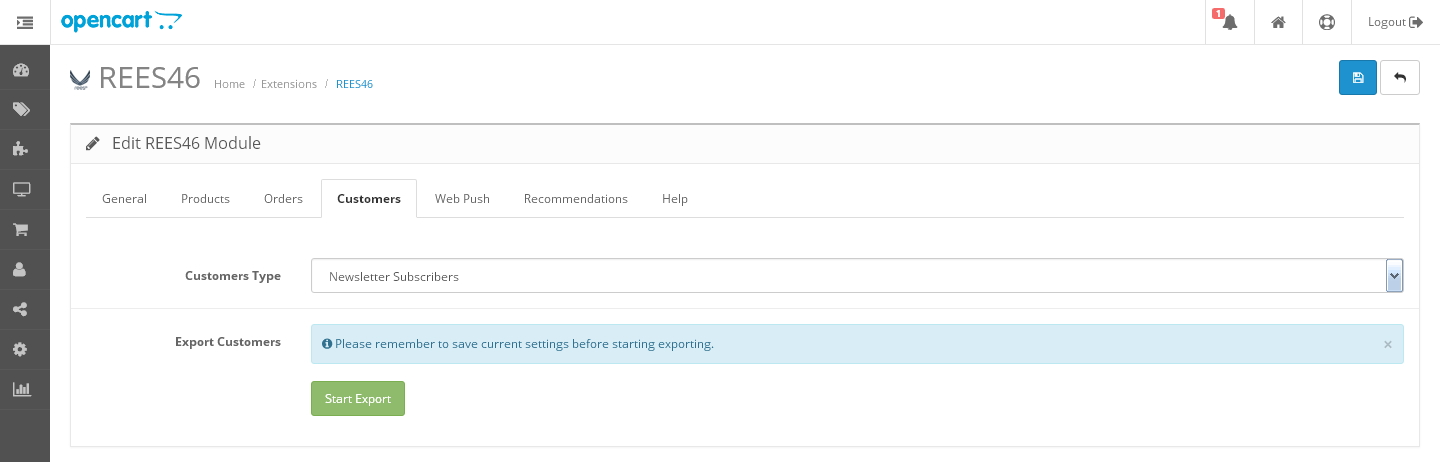
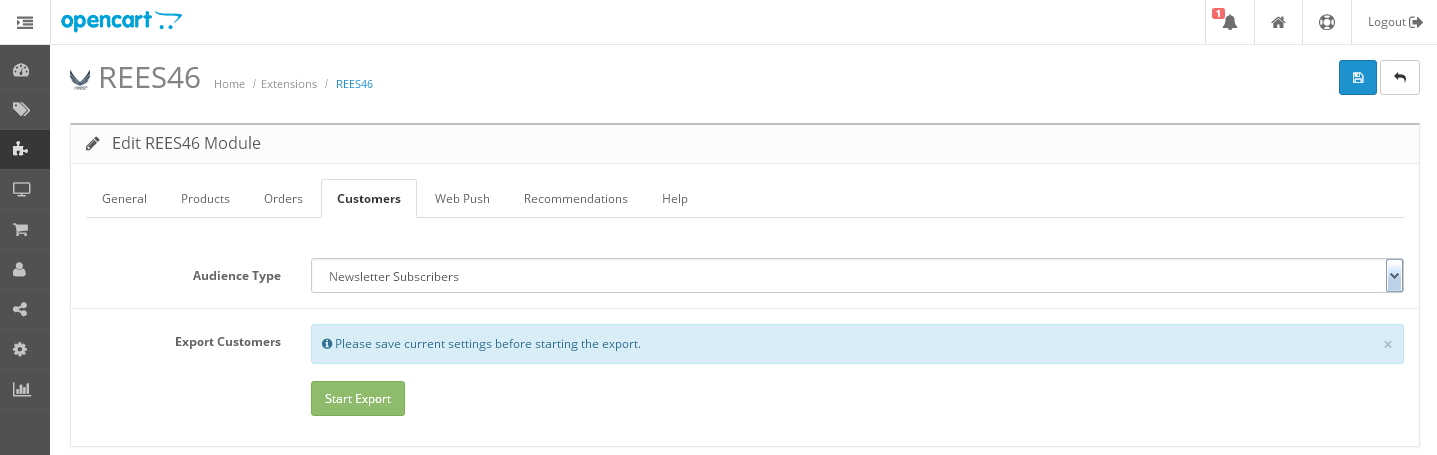
Update translation

diff --git a/upload/admin/language/en-gb/extension/module/rees46.php b/upload/admin/language/en-gb/extension/module/rees46.php
@@ -13,7 +13,7 @@ $_['tab_help']                    = 'Help';
 
 // Button
 $_['button_export']               = 'Start Export';
-$_['button_check']                = 'Check Necessary Files';
+$_['button_check']                = 'Check Files';
 $_['button_generate']             = 'Start Generate';
 
 // Text
@@ -48,8 +48,8 @@ $_['text_autocomplete']           = 'Autocomplete';
 $_['text_subscribers']            = 'Newsletter Subscribers';
 $_['text_customers']              = 'All Customers';
 $_['text_info_1']                 = '<a href="https://rees46.com/customers/sign_up?locale=en" target="_blank">To start using this module, please register an account on rees46.com.</a>';
-$_['text_info_2']                 = 'Manual export is required once - during initial configuration. Exported orders are the orders for the last 6 months with the statuses of your choice. Please remember to save current settings before starting exporting.';
-$_['text_info_3']                 = 'Please remember to save current settings before starting exporting.';
+$_['text_info_2']                 = 'Manual export is required once - during initial configuration. Exported orders are the orders for the last 6 months with the statuses of your choice. Please remember to save current settings before starting the export.';
+$_['text_info_3']                 = 'Please save current settings before starting the export.';
 $_['text_info_4']                 = 'To enable Web Push Notifications, your website first needs to support HTTPS and have manifest.json and push_sw.js in the root directory of your online store project.';
 
 // Entry
@@ -62,8 +62,8 @@ $_['entry_status_created']        = 'Created Order Status';
 $_['entry_status_completed']      = 'Completed Order Status';
 $_['entry_status_cancelled']      = 'Cancelled Order Status';
 $_['entry_export_customers']      = 'Export Customers';
-$_['entry_export_type']           = 'Customers Type';
-$_['entry_webpush_files']         = 'Necessary Files';
+$_['entry_export_type']           = 'Audience Type';
+$_['entry_webpush_files']         = 'Check Necessary Files';
 $_['entry_xml_currency']          = 'Currency';
 $_['entry_xml_cron']              = 'Cron Task Link';
 $_['entry_name']                  = 'Block Name';
